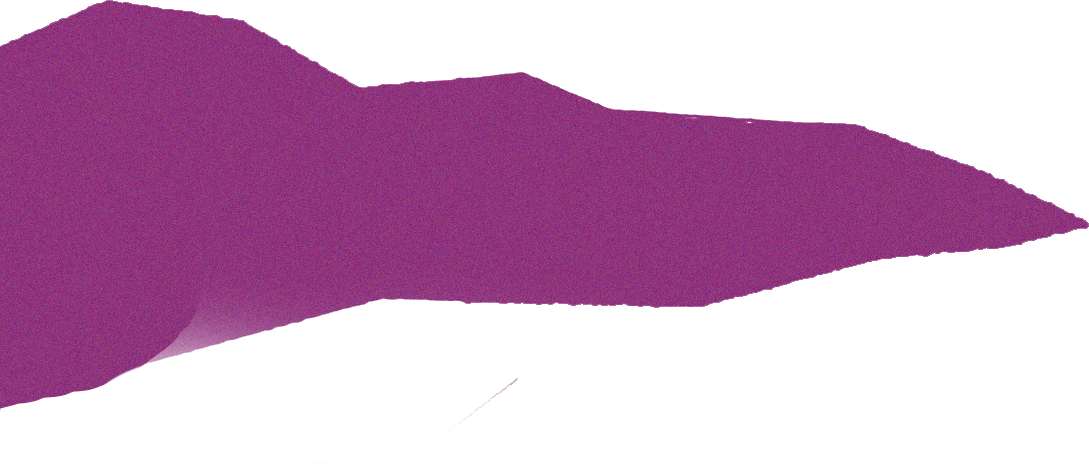
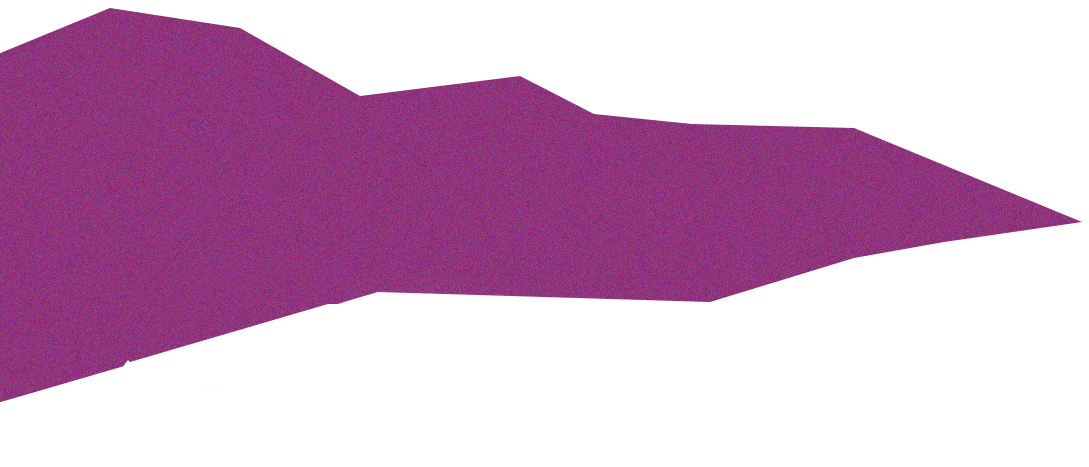
revised artwork

diff --git a/build/scss/layout/_main.scss b/build/scss/layout/_main.scss
@@ -103,17 +103,17 @@ a, button{
   }
   :nth-child(2) {
     z-index: -14;
-    top: 17vh;
+    top: 19vh;
     left: 0vw;
-    width: 63vw;
+    width: 95vw;
     height: 33vh;
   }
   :nth-child(3) {
     z-index: -13;
-    top: 23vh;
+    top: 28vh;
     left: 15vw;
-    width: 10vw;
-    height: 20vh;
+    width: 8vw;
+    height: 14vh;
   }
   :nth-child(4) {
     z-index: -12;
@@ -143,22 +143,22 @@ a, button{
   }
   :nth-child(7) {
     z-index: -9;
-    top: 35vh;
-    left: 0px;
-    width: 27vw;
-    height: 30vh;
+    top: 33vh;
+    left: 0vw;
+    width: 36vw;
+    height: 35vh;
   }
   :nth-child(8) {
     z-index: -8;
-    top: 39vh;
-    left: -10vw;
+    top: 43vh;
+    left: 0vw;
     width: 30vw;
     height: 50vh;
   }
   :nth-child(9) {
     z-index: -9;
-    top: 63vh;
-    left: -5vw;
+    top: 68vh;
+    left: 3vw;
     width: 20vw;
     height: 20vh;
   }
@@ -185,17 +185,17 @@ a, button{
   }
   :nth-child(13) {
     z-index: -3;
-    top: 67vh;
-    left: 45vw;
+    top: 76vh;
+    left: 58vw;
     height: 7vh;
     width: 2vw;
   }
   :nth-child(14) {
     z-index: -2;
-    top: 65vh;
-    left: 20vw;
+    top: 69vh;
+    left: 29vw;
     width: 15vw;
-    height: 17vh;
+    height: 17vh
   }
   :nth-child(15) {
     z-index:-1;

diff --git a/index.html b/index.html
@@ -181,6 +181,11 @@
 
         <img src="assets/img/new2/woods.png"/>
 
+<img parallax="" parallax-ratio="0.3" src="assets/img/new2/reflection.png" class="ng-isolate-scope parallax" style="transform: translate(0px, 0px);z-index: -12;bottom: 0vh;left: 25vw;width: 15vw;height: 11vh;top: 52vh;">
+
+<img parallax="" parallax-ratio="0.3" src="assets/img/new2/reflection.png" class="ng-isolate-scope parallax" style="transform: translate(0px, 0px);z-index: -12;bottom: 0vh;left: 23vw;width: 12vw;height: 5vh;top: 62vh;">
+
+<img parallax="" parallax-ratio="0.3" src="assets/img/new2/reflection.png" class="ng-isolate-scope parallax" style="transform: translate(0px, 0px);z-index: -12;bottom: 0vh;left: 40vw;width: 33vw;height: 2vh;top: 58vh;">
     <!--
           <img src="assets/img/new/sky.png" alt="" />
           <img src="assets/img/new/clouds_stars.png" alt="" />
